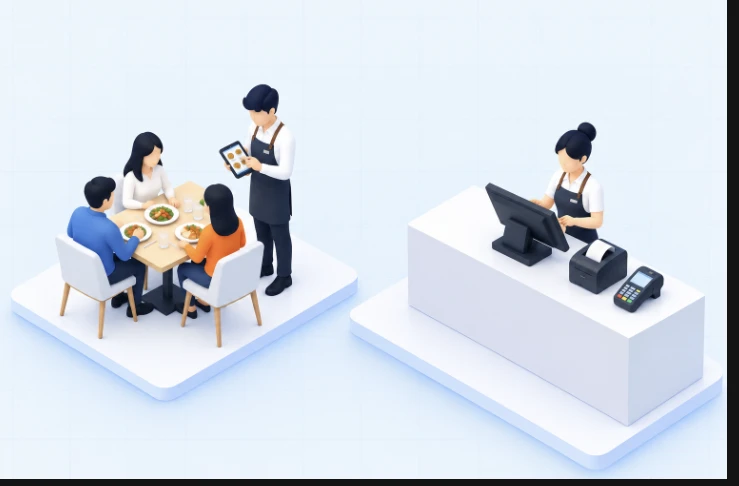
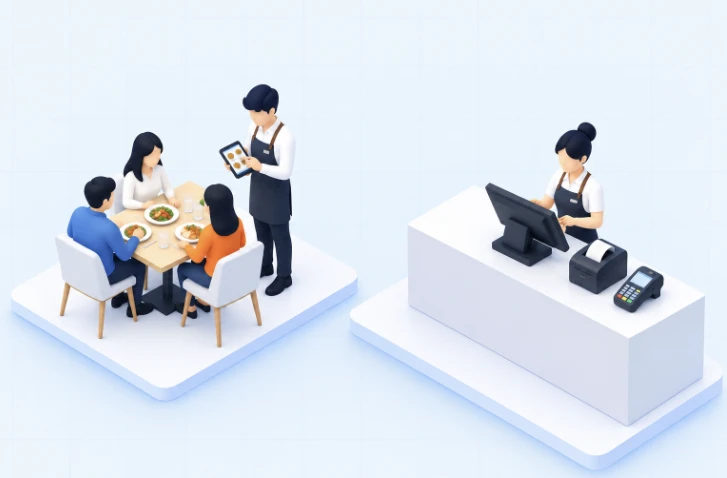
fix: trim POS hero source image

Changed region(s): [[0.0, 0.0, 1.0, 1.0], [0.0, 0.1757, 0.5144, 0.8494], [0.5447, 0.5858, 0.575, 0.6151]]

diff --git a/UI/src/app/components/index/app/solution-island-heroes.spec.ts b/UI/src/app/components/index/app/solution-island-heroes.spec.ts
@@ -90,8 +90,8 @@ describe('solution island heroes', () => {
       if (item.component === CustomPOSEWaiterComponent) {
         expect(host.querySelector('app-solution-hero')).not.toBeNull();
         expect(host.querySelectorAll('[data-solution-hero]').length).toBe(1);
-        expect(hero?.querySelector('img')?.getAttribute('width')).toBe('739');
-        expect(hero?.querySelector('img')?.getAttribute('height')).toBe('486');
+        expect(hero?.querySelector('img')?.getAttribute('width')).toBe('727');
+        expect(hero?.querySelector('img')?.getAttribute('height')).toBe('478');
       }
     }
 

diff --git a/UI/client_specifc/0771BB36-9631-40F2-A204-C60247E9F1E1/components/cloud-pos-point-of-sales-system/cloud-pos-point-of-sales-system.component.ts b/UI/client_specifc/0771BB36-9631-40F2-A204-C60247E9F1E1/components/cloud-pos-point-of-sales-system/cloud-pos-point-of-sales-system.component.ts
@@ -15,8 +15,8 @@ export class CustomPOSEWaiterComponent {
     title: 'APPZPOS Cutting-Edge POS Point of Sales and E-Menu System',
     imageSrc: 'assets/images/ecosystem/ecosystem-pos-ewaiter.webp',
     imageAlt: 'APPZPOS waiter taking a table order beside a staffed counter POS system',
-    imageWidth: 739,
-    imageHeight: 486
+    imageWidth: 727,
+    imageHeight: 478
   };
 
   constructor(private titleService: Title,private commonFunctionService: CommonFunctionService,private meta: Meta) {
